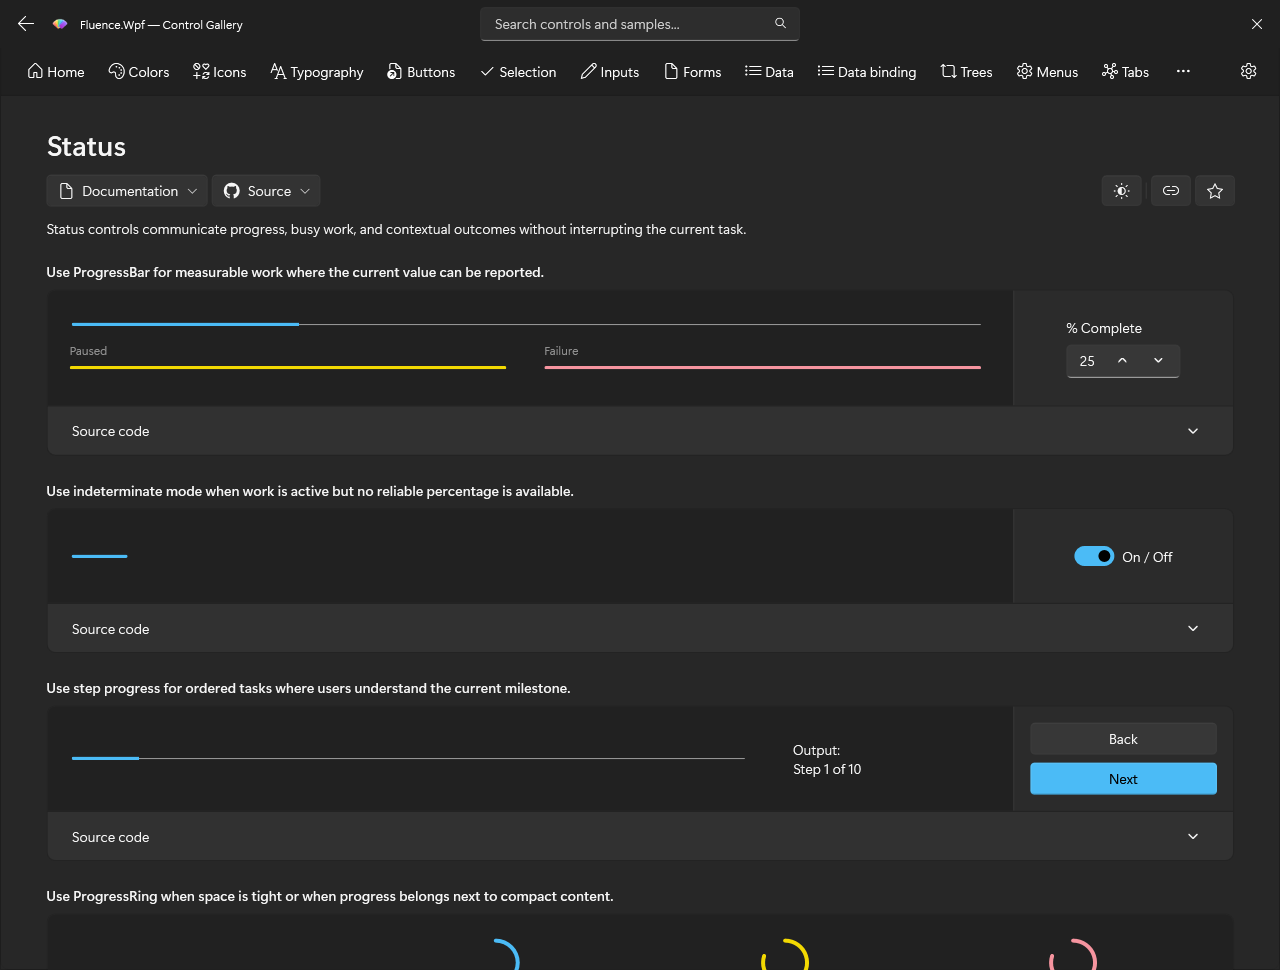
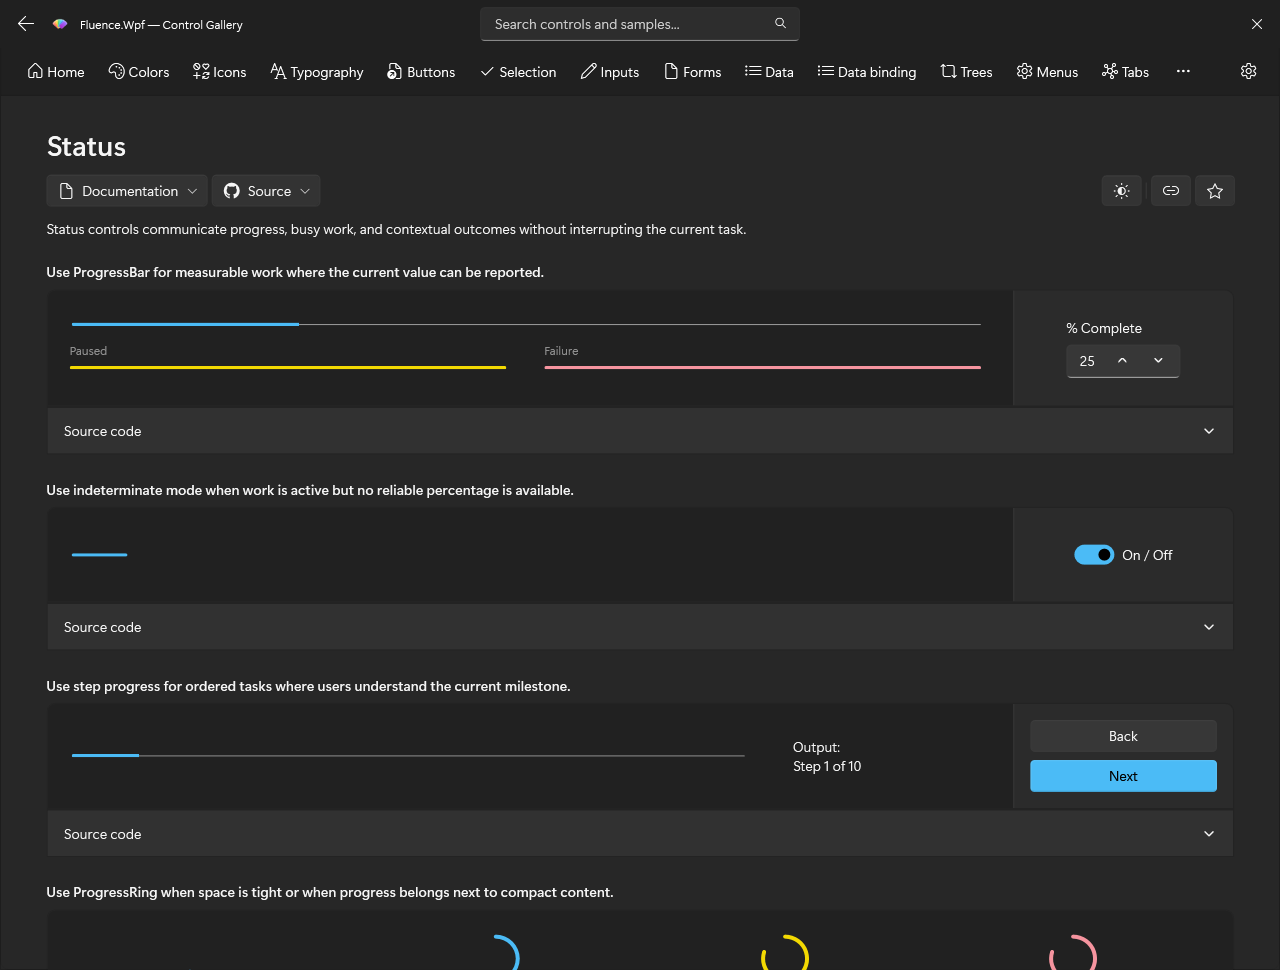
chore(baselines): regenerate for the flyout and radio regression cases
The two cases added with the flyout dismissal and radio dot fixes were never
captured. The baselines take them, the allowlist records them, and the CI floors
move from 1310 to 1312 on net472 and from 1311 to 1313 on net10.

The documentation screenshots are recaptured against the current templates,
which is where the Expander box model and the demo source section show up.

diff --git a/Fluence.Wpf.Tests/Baselines/allowlist.md b/Fluence.Wpf.Tests/Baselines/allowlist.md
@@ -282,3 +282,24 @@ net10, 1308 to 1311 on net472.
 ### Status
 
 Consumed. The baseline files beside this one carry the post-addition capture.
+
+## Branch `fix/gallery-visual-defects`: the flyout dismissal and the radio dot
+
+Two regression cases for the two defects fixed in the same batch: one pinning
+that a flyout stays on screen through the gesture that opened it and closes on
+the next press outside, and one pinning that a radio button's state storyboards
+release on exit rather than stamping a dot into an unchecked ring.
+
+### Additions: 2 lines
+
+| Method | Occurrences | Source |
+| ------ | ----------: | ------ |
+| `FlyoutBase_LightDismiss_ClosesOnAPressOutsideAsync` | 1 | `Control/FlyoutTests.cs` |
+| `RadioButton_StateSizeStoryboards_ReleaseRatherThanStampOnExitAsync` | 1 | `Control/RadioButtonTests.cs` |
+
+Net: 2 added, none removed. 1314 cases to 1316 on net10, 1311 to 1313 on
+net472.
+
+### Status
+
+Consumed. The baseline files beside this one carry the post-addition capture.
